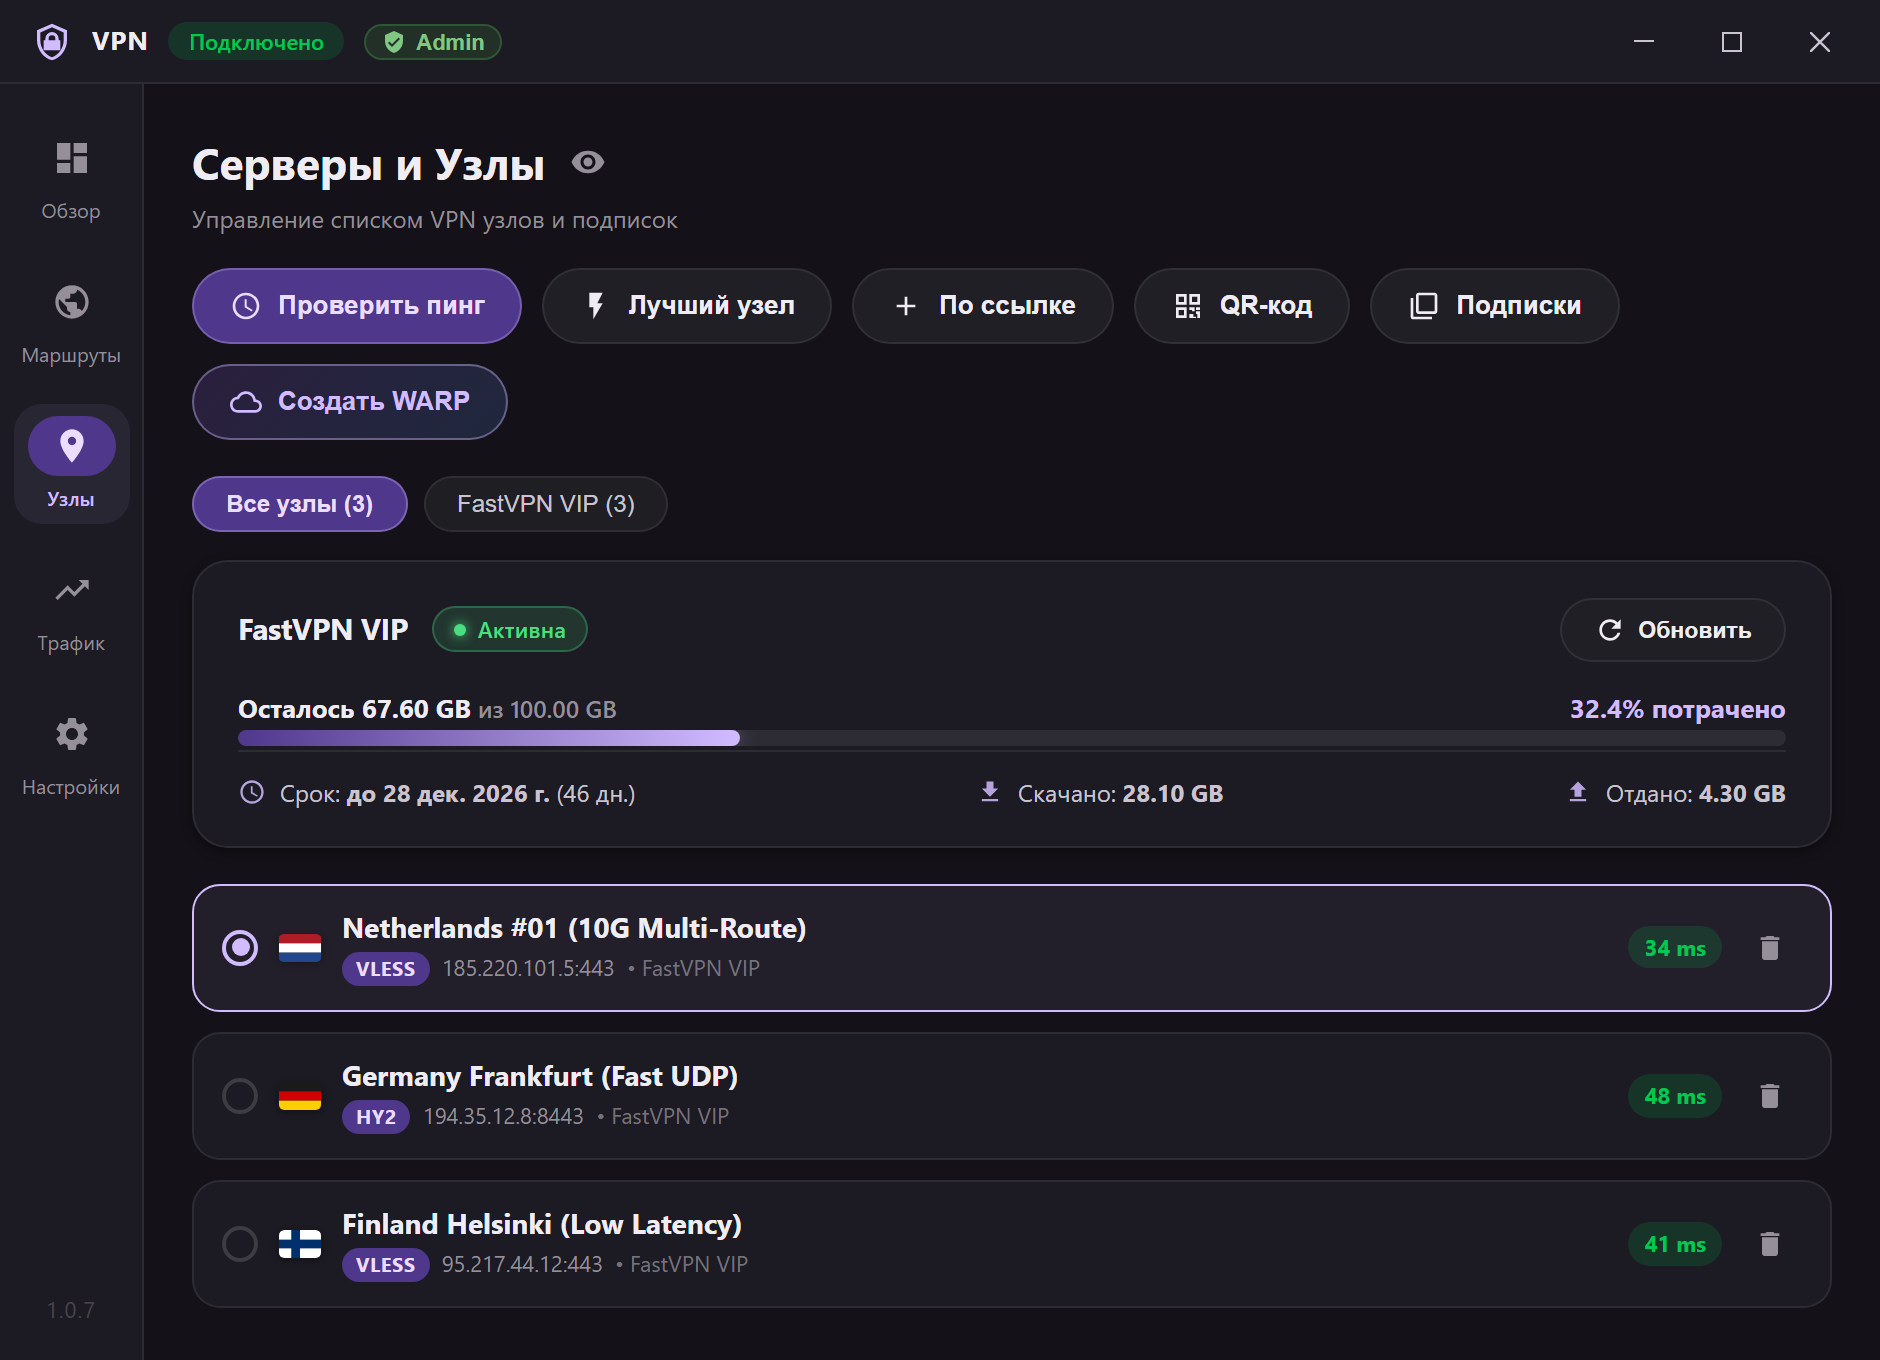
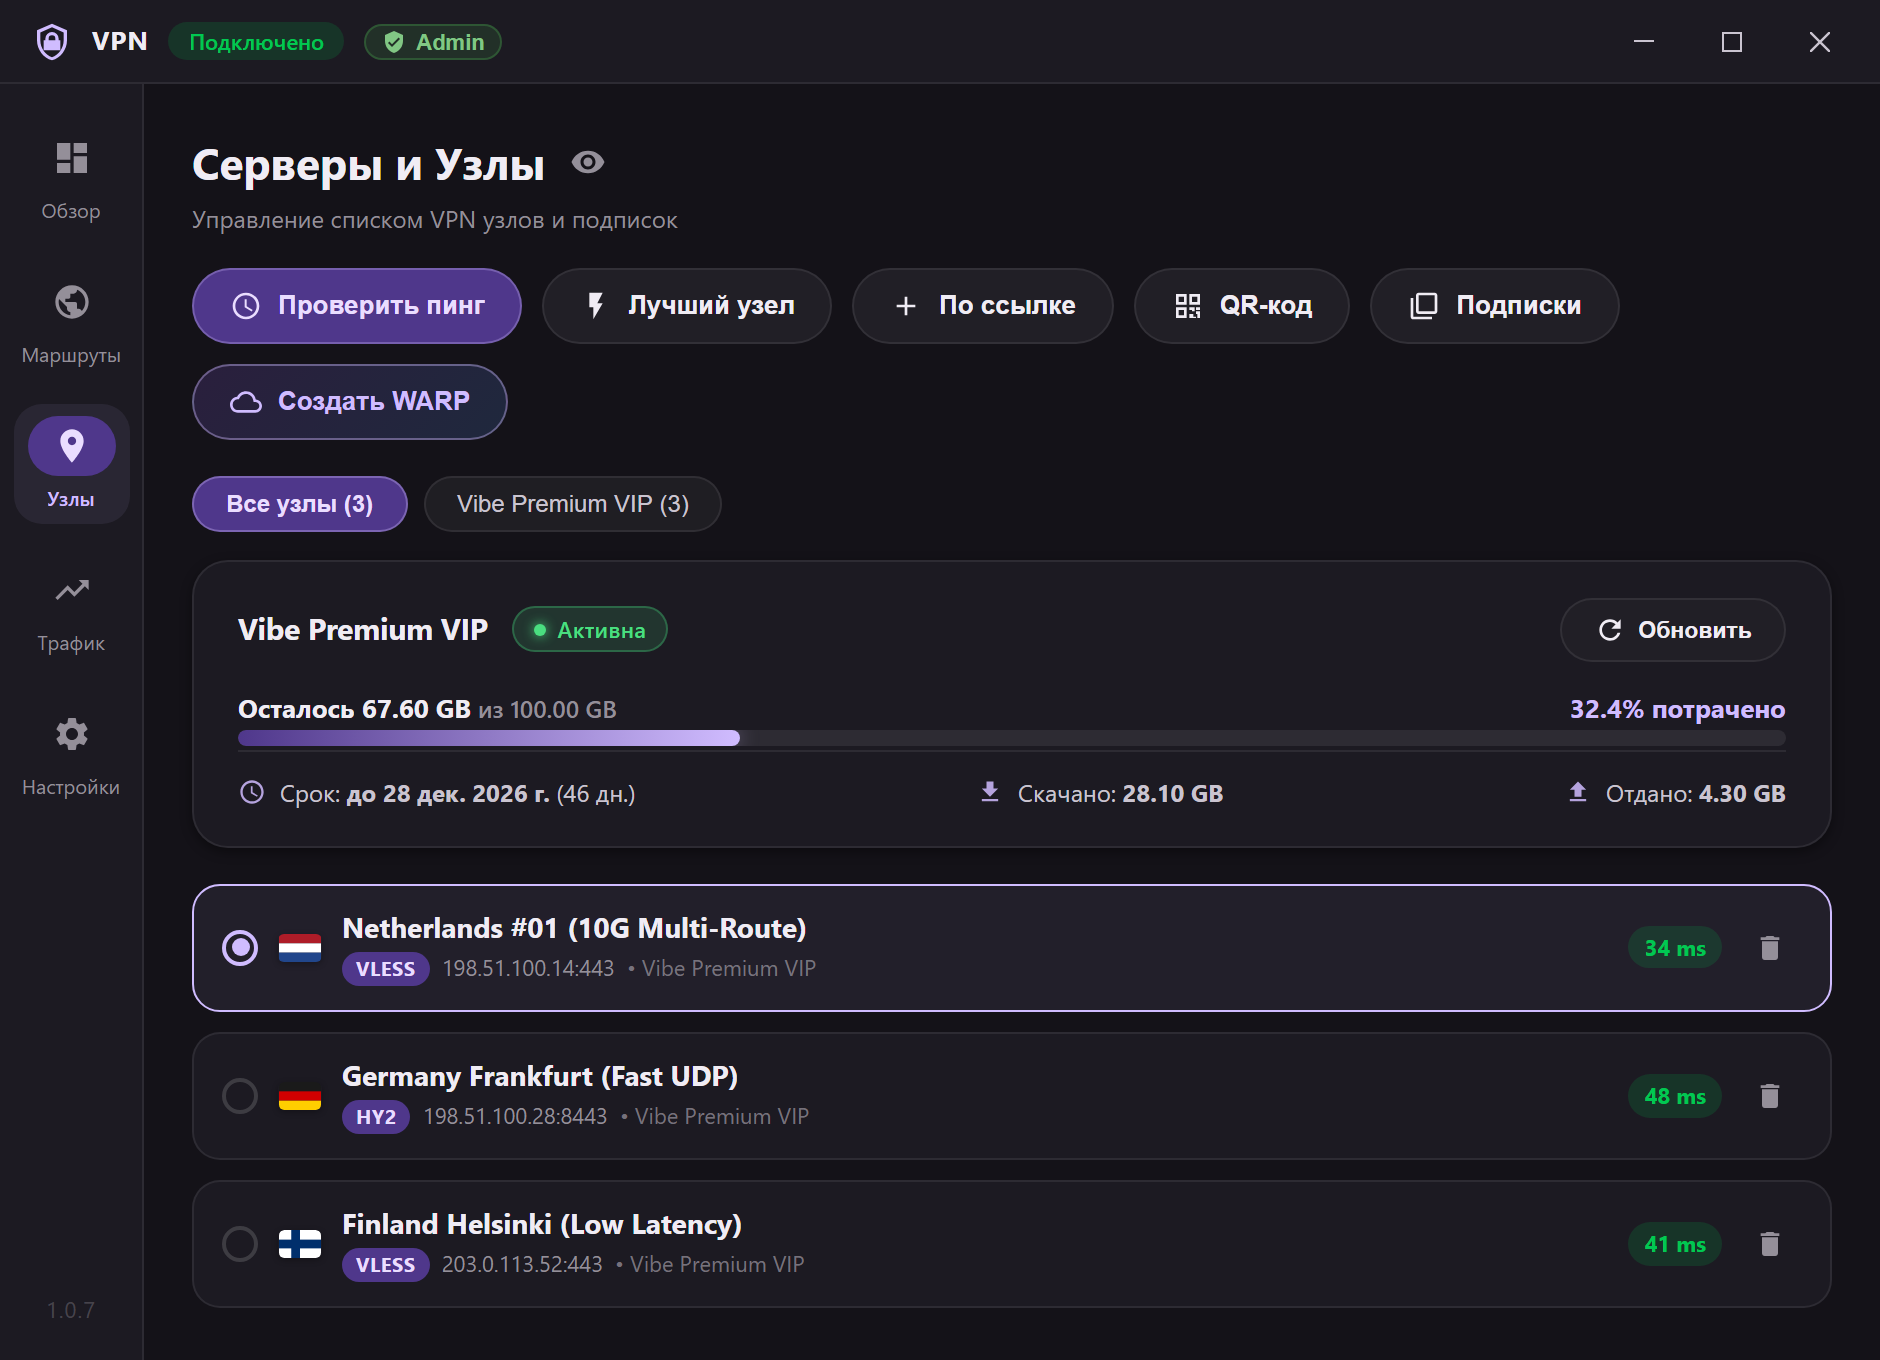
docs: update READMEs with v1.0.7 features and clean demo screenshots

diff --git a/README.md b/README.md
@@ -7,17 +7,38 @@
 </p>
 
 ![Platform](https://img.shields.io/badge/Платформа-Windows%2010%20%2F%2011%20x64-0078D6?logo=windows&logoColor=white)
+![Version](https://img.shields.io/badge/Версия-v1.0.7-brightgreen.svg)
 ![Go](https://img.shields.io/badge/Go-1.23%2B-00ADD8?logo=go&logoColor=white)
 ![Wails](https://img.shields.io/badge/Wails-v2-DF0000?logo=wails&logoColor=white)
 ![Sing-Box](https://img.shields.io/badge/Ядро-sing--box%201.14-FF6B00?logo=box&logoColor=white)
 ![License](https://img.shields.io/badge/Лицензия-MIT-green.svg)
 ![i18n](https://img.shields.io/badge/Язык-RU%20%7C%20EN-blueviolet.svg)
 
-**Простой, красивый и быстрый VPN-клиент для Windows с разделением трафика по приложениям (Split Tunneling), генератором и импортом WARP (AmneziaWG), гео-маршрутизацией списков IP/доменов, живым журналом логов ядра и защитой от сетевого шума.**
+**Простой, красивый и быстрый VPN-клиент для Windows с разделением трафика по приложениям (Split Tunneling), генератором и импортом WARP (AmneziaWG), каскадным туннелированием WARP Detour, гео-маршрутизацией списков IP/доменов, живым журналом логов ядра и защитой от сетевого шума.**
 
-[Скачать последний релиз (.exe)](https://github.com/zalupacode228/vibe-vpn/releases/latest) • [Возможности](#-основные-возможности) • [Сборка из исходников](#-сборка-из-исходников)
+[Скачать релиз v1.0.7 (.exe)](https://github.com/zalupacode228/vibe-vpn/releases/tag/v1.0.7) • [Что нового](#-новое-в-версии-107) • [Возможности](#-основные-возможности) • [Сборка из исходников](#-сборка-из-исходников)
 
 </div>
+
+---
+
+## 🆕 Новое в версии 1.0.7
+
+- 🛡 **WARP Detour (Clean IP / Двойной туннель)**:
+  - Выход в сеть через Cloudflare WARP поверх любого подключенного прокси (VLESS, Hysteria 2, Shadowsocks, Trojan). Реальный IP сервера скрыт от целевых сайтов, блокировки датацентров и капчи обходятся автоматически.
+  - Быстрое переключение одной кнопкой `WARP Clean IP` прямо в шапке главного экрана.
+- ⚡ **Выбор самого быстрого узла**:
+  - Автоматическое тестирование и переключение на сервер с наименьшим пингом в один клик из выпадающего меню активного узла или в панели «Серверы».
+- 🌐 **Реальный тест веб-задержки (Web Latency)**:
+  - Проверка фактического HTTP RTT (код 204) до веб-сервиса через активный туннель вместо поверхностного сетевого рукопожатия.
+- ⛔ **Kill Switch (Защита от утечки трафика)**:
+  - Мгновенная блокировка сетевых пакетов мимо туннеля при случайном обрыве VPN-соединения до момента его восстановления.
+- 🔄 **Фоновое автообновление подписок**:
+  - Автоматическая синхронизация списков серверов каждые 24 часа в фоне без прерывания работы.
+- 💾 **Резервная копия и восстановление профиля**:
+  - Экспорт и импорт всех настроек, подписок, кастомных узлов и правил маршрутизации в один клик через переносимый JSON-файл.
+- 📡 **Протокол-ориентированный замер пинга**:
+  - Нативный системный ICMP Echo для UDP-протоколов (Hysteria 2 / TUIC) и точный замер чистого TCP RTT для VLESS Reality / XHTTP без зависаний.
 
 ---
 

diff --git a/README_EN.md b/README_EN.md
@@ -7,17 +7,38 @@
 </p>
 
 ![Platform](https://img.shields.io/badge/Platform-Windows%2010%20%2F%2011%20x64-0078D6?logo=windows&logoColor=white)
+![Version](https://img.shields.io/badge/Version-v1.0.7-brightgreen.svg)
 ![Go](https://img.shields.io/badge/Go-1.23%2B-00ADD8?logo=go&logoColor=white)
 ![Wails](https://img.shields.io/badge/Wails-v2-DF0000?logo=wails&logoColor=white)
 ![Sing-Box](https://img.shields.io/badge/Core-sing--box%201.14-FF6B00?logo=box&logoColor=white)
 ![License](https://img.shields.io/badge/License-MIT-green.svg)
 ![i18n](https://img.shields.io/badge/Language-RU%20%7C%20EN-blueviolet.svg)
 
-**A fast, modern, and lightweight Windows VPN client featuring per-application Split Tunneling, Cloudflare WARP (AmneziaWG / MASQUE) generator and config import, smart domain & IP/CIDR geo-routing, real-time connection log viewer, and network noise filtering.**
+**A fast, modern, and lightweight Windows VPN client featuring per-application Split Tunneling, Cloudflare WARP (AmneziaWG / MASQUE) generator and config import, WARP Detour chained proxying, smart domain & IP/CIDR geo-routing, real-time connection log viewer, and network noise filtering.**
 
-[Download Latest Release](https://github.com/zalupacode228/vibe-vpn/releases/latest) • [Key Features](#-key-features) • [Building from Source](#-building-from-source)
+[Download Release v1.0.7 (.exe)](https://github.com/zalupacode228/vibe-vpn/releases/tag/v1.0.7) • [What's New](#-whats-new-in-v107) • [Key Features](#-key-features) • [Building from Source](#-building-from-source)
 
 </div>
+
+---
+
+## 🆕 What's New in v1.0.7
+
+- 🛡 **WARP Detour (Clean IP / Chained Proxy)**:
+  - Route internet egress through Cloudflare WARP on top of any active upstream proxy (VLESS, Hysteria 2, Shadowsocks, Trojan). Hides the VPS IP address from destination sites, effortlessly bypassing datacenter blocks, Cloudflare turnstiles, and aggressive captchas.
+  - One-click instant toggle button `WARP Clean IP` right inside the main header.
+- ⚡ **Fastest Node Selection**:
+  - Automatically benchmarks and switches to the lowest-latency server in one click from the active server dropdown or the Servers panel.
+- 🌐 **Real Web Latency Test (Web Latency)**:
+  - Measures true end-to-end HTTP RTT (code 204) through the active tunnel to verified endpoints instead of superficial TCP handshakes.
+- ⛔ **Kill Switch (Leak Protection)**:
+  - Immediately blocks unencrypted internet traffic if the VPN tunnel drops unexpectedly until the connection is safely restored.
+- 🔄 **Background Subscription Auto-Update**:
+  - Automatically synchronizes subscription node lists every 24 hours in the background.
+- 💾 **Profile Backup & Restore**:
+  - One-click export and import of all user settings, subscriptions, custom nodes, and routing rules to/from a portable JSON file.
+- 📡 **Protocol-Aware Latency**:
+  - Native ICMP Echo measurement for UDP protocols (Hysteria 2 / TUIC) and optimized TCP RTT for VLESS Reality / XHTTP without timeouts.
 
 ---
 
